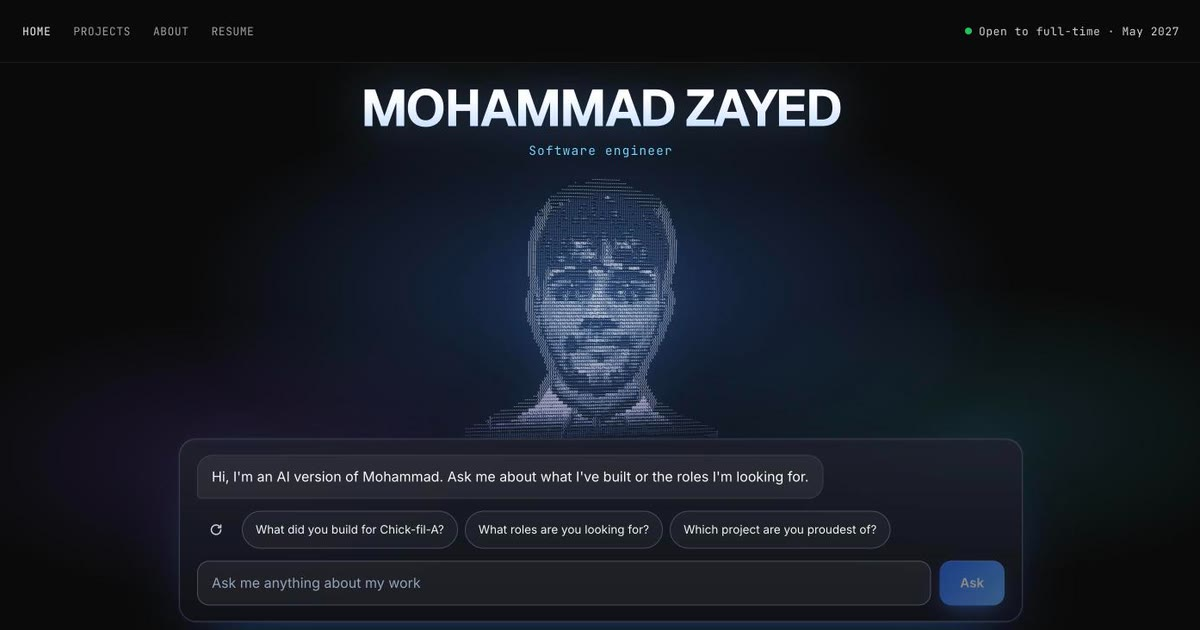
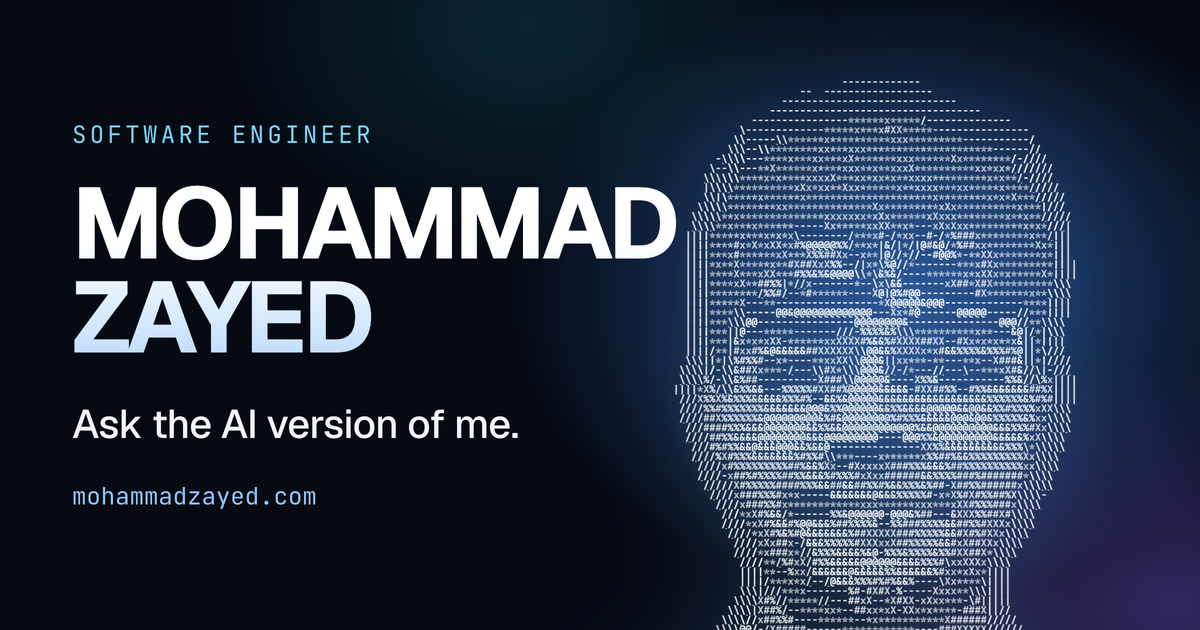
New Share preview and centered search bar

diff --git a/index.html b/index.html
@@ -24,7 +24,7 @@
 <meta property="og:image" content="https://mohammadzayed.com/assets/og.jpg" />
 <meta property="og:image:width" content="1200" />
 <meta property="og:image:height" content="630" />
-<meta property="og:image:alt" content="The home page of mohammadzayed.com: a portrait drawn in characters above an Ask Mohammad chat box" />
+<meta property="og:image:alt" content="Mohammad Zayed, software engineer. Ask the AI version of me. A portrait drawn in text characters." />
 <meta property="og:site_name" content="Mohammad Zayed" />
 <meta property="profile:first_name" content="Mohammad" />
 <meta property="profile:last_name" content="Zayed" />
@@ -102,7 +102,7 @@
 <link rel="preconnect" href="https://fonts.gstatic.com" crossorigin />
 <link href="https://fonts.googleapis.com/css2?family=Geist:wght@400;500;600;700&family=Inter:wght@400;500;600&family=JetBrains+Mono:wght@400;500&family=Instrument+Serif:ital@0;1&display=swap" rel="stylesheet" />
 
-<link rel="stylesheet" href="/styles.css?v=235478f" />
+<link rel="stylesheet" href="/styles.css?v=f2e564a" />
 
 <!-- GoatCounter analytics (privacy-friendly, no cookies) -->
 <script data-goatcounter="https://mohammadzayed.goatcounter.com/count" async src="https://gc.zgo.at/count.js"></script>
@@ -131,7 +131,7 @@
 <!-- Pre-compiled JSX bundles (built via `npm run build` → /dist) -->
 <script src="/track.js" defer></script>
 <script src="/ph.js" defer></script>
-<script src="/dist/ask.js?v=235478f" defer></script>
-<script src="/dist/app.js?v=235478f" defer></script>
+<script src="/dist/ask.js?v=f2e564a" defer></script>
+<script src="/dist/app.js?v=f2e564a" defer></script>
 </body>
 </html>

diff --git a/styles.css b/styles.css
@@ -342,6 +342,19 @@ button { font: inherit; color: inherit; background: none; border: 0; cursor: poi
 .footer-link { display: inline-flex; align-items: center; gap: 5px; color: var(--fg-mute); transition: color .2s; }
 .footer-link:hover { color: var(--fg); }
 
+/* Before the first question the panel reads top to bottom on one centre line:
+   the greeting as plain text, the input, then the suggested questions. */
+.ask-home:not(.is-active) .ask-log { padding-right: 0; overflow: visible; }
+.ask-home:not(.is-active) .ask-log .ask-a {
+  align-self: center; max-width: 86ch; padding: 6px 0 2px; gap: 4px; text-wrap: balance;
+  background: none; border: 0; border-radius: 0; align-items: center; text-align: center;
+}
+.ask-home:not(.is-active) .ask-form { order: 2; }
+.ask-home:not(.is-active) .ask-chips { order: 3; justify-content: center; }
+.ask-home:not(.is-active) .ask-chip { text-align: center; }
+.ask-home:not(.is-active) .ask-refresh { order: 9; margin: 0; }
+@media (min-width: 561px) and (max-width: 760px) { .ask-home:not(.is-active) .ask-chip { flex: 0 1 auto; } }
+
 /* Small actions under an answer, and the email offer */
 .ask-tools { display: flex; gap: 6px; margin-top: 8px; }
 .ask-tool {

diff --git a/about.html b/about.html
@@ -128,8 +128,8 @@
 <link rel="preconnect" href="https://fonts.gstatic.com" crossorigin />
 <link href="https://fonts.googleapis.com/css2?family=Geist:wght@400;500;600;700&family=Inter:wght@400;500;600&family=JetBrains+Mono:wght@400;500&family=Instrument+Serif:ital@0;1&display=swap" rel="stylesheet" />
 
-<link rel="stylesheet" href="/styles.css?v=235478f" />
-<link rel="stylesheet" href="/pages.css?v=235478f" />
+<link rel="stylesheet" href="/styles.css?v=f2e564a" />
+<link rel="stylesheet" href="/pages.css?v=f2e564a" />
 
 <script data-goatcounter="https://mohammadzayed.goatcounter.com/count" async src="https://gc.zgo.at/count.js"></script>
 </head>
@@ -268,7 +268,7 @@
     <a class="footer-link" href="/resume">Resume</a>
   </div>
 </footer>
-<script src="/track.js?v=235478f" defer></script>
-<script src="/ph.js?v=235478f" defer></script>
+<script src="/track.js?v=f2e564a" defer></script>
+<script src="/ph.js?v=f2e564a" defer></script>
 </body>
 </html>

diff --git a/projects.html b/projects.html
@@ -85,8 +85,8 @@
 <link rel="preconnect" href="https://fonts.gstatic.com" crossorigin />
 <link href="https://fonts.googleapis.com/css2?family=Geist:wght@400;500;600;700&family=Inter:wght@400;500;600&family=JetBrains+Mono:wght@400;500&family=Instrument+Serif:ital@0;1&display=swap" rel="stylesheet" />
 
-<link rel="stylesheet" href="/styles.css?v=235478f" />
-<link rel="stylesheet" href="/pages.css?v=235478f" />
+<link rel="stylesheet" href="/styles.css?v=f2e564a" />
+<link rel="stylesheet" href="/pages.css?v=f2e564a" />
 
 <script data-goatcounter="https://mohammadzayed.goatcounter.com/count" async src="https://gc.zgo.at/count.js"></script>
 </head>
@@ -211,7 +211,7 @@
     <a class="footer-link" href="/resume">Resume</a>
   </div>
 </footer>
-<script src="/track.js?v=235478f" defer></script>
-<script src="/ph.js?v=235478f" defer></script>
+<script src="/track.js?v=f2e564a" defer></script>
+<script src="/ph.js?v=f2e564a" defer></script>
 </body>
 </html>

diff --git a/ask.jsx b/ask.jsx
@@ -394,7 +394,8 @@ function GlyphPortrait() {
           v *= fade;
           if (v > 1) v = 1;
           const g = scramble ? 1 + ((i + frame * 5) % (GLYPH_RAMP - 1))
-            : glyph[i] >= 0 ? glyph[i] : Math.max(1, Math.round(v * (GLYPH_RAMP - 1)));
+            // Dark areas (hair) keep fairly dense characters, just dimmer, so they read as a mass.
+            : glyph[i] >= 0 ? glyph[i] : Math.max(1, Math.round((0.38 + 0.62 * v) * (GLYPH_RAMP - 1)));
           const lv = Math.round(v * (GLYPH_LEVELS - 1));
           ctx.drawImage(atlas, g * cwD, lv * chD, cwD, chD, x * cwD, y * chD, cwD, chD);
         }
